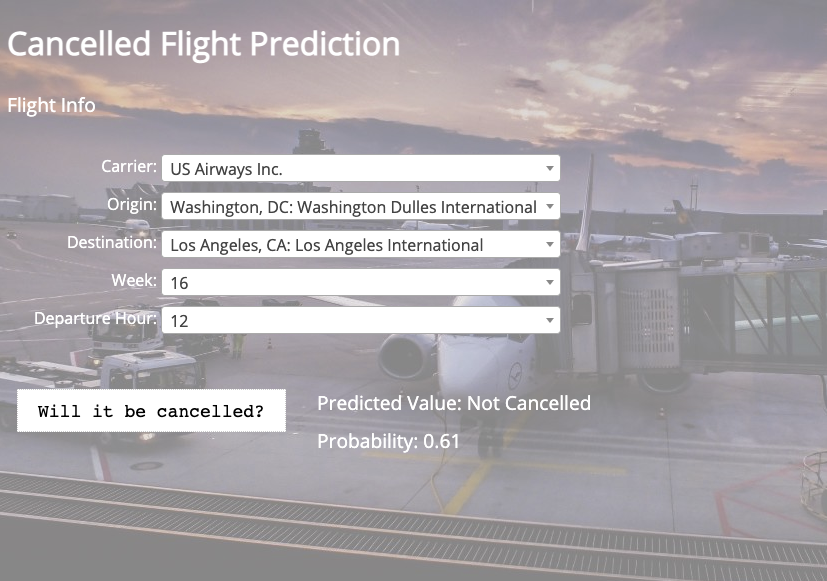
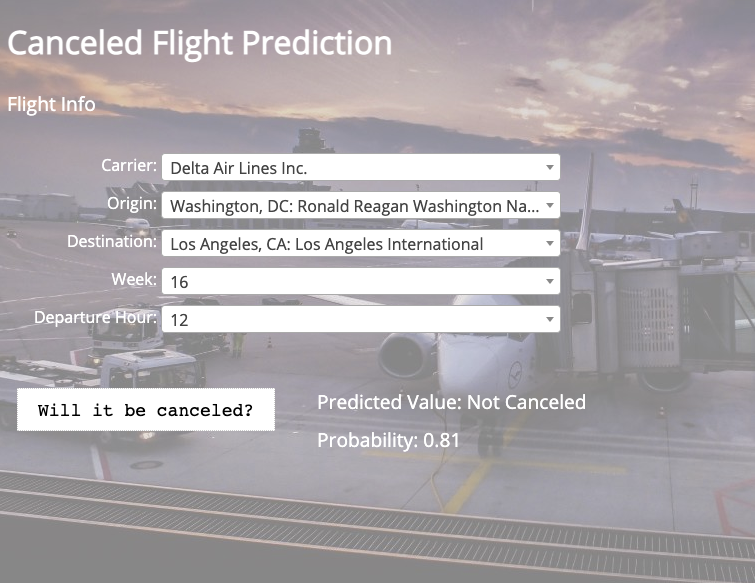
change spelling of cancelled throughout app

diff --git a/app/index.html b/app/index.html
@@ -54,7 +54,7 @@
 </head>
 
 <body>
-    <h1>Cancelled Flight Prediction</h1>
+    <h1>Canceled Flight Prediction</h1>
     <div class="bigger" style="margin-bottom: 30px">Flight Info</div>
 
     <div class="frm">
@@ -81,7 +81,7 @@
         </div>
 
         <div class="results">
-            <input type="submit" class="btn" value="Will it be cancelled?" onclick="go_fetch()"
+            <input type="submit" class="btn" value="Will it be canceled?" onclick="go_fetch()"
                 style="float:left;"></input>
 
             <div style="margin-left: 300px">

diff --git a/app/js/script.js b/app/js/script.js
@@ -490,7 +490,7 @@ function go_fetch() {
         }
     })
         .then(response => response.json())
-        .then(data => d3.select("#pred_value").text("Predicted Value: " + (data.response.prediction.prediction == 0 ? "Not Cancelled" : "Cancelled")) &
+        .then(data => d3.select("#pred_value").text("Predicted Value: " + (data.response.prediction.prediction == 0 ? "Not Canceled" : "Canceled")) &
             d3.select("#proba_value").text("Probability: " + (data.response.prediction.proba)))
         .catch(error => console.error('Error:', error));
 }

diff --git a/README.md b/README.md
@@ -1,11 +1,11 @@
-# Cancelled Flight Prediction
+# Canceled Flight Prediction
 This project is a Cloudera Machine Learning ([CML](https://www.cloudera.com/products/machine-learning.html)) **Applied Machine Learning Prototype** and has all the code and data needed to deploy an end-to-end machine learning project on a running CML instance.
 
 ![app](images/app.png)
 
 
 
-The primary goal of this repository is to build a gradient boosted (XGBoost) classification model to predict the likelihood of a flight being cancelled based on years of historical records. To achieve that goal, this project demonstrates the end-to-end processing needed to take two large, raw datasets and transform them into a clean, unified dataset for model training and inference using Spark on CML. Additionally, this project deploys a hosted model and front-end application to allow users to interact with the trained model. 
+The primary goal of this repository is to build a gradient boosted (XGBoost) classification model to predict the likelihood of a flight being canceled based on years of historical records. To achieve that goal, this project demonstrates the end-to-end processing needed to take two large, raw datasets and transform them into a clean, unified dataset for model training and inference using Spark on CML. Additionally, this project deploys a hosted model and front-end application to allow users to interact with the trained model. 
 
 The two datasets used in this project come from [Kaggle](https://www.kaggle.com/yuanyuwendymu/airline-delay-and-cancellation-data-2009-2018) and the [Bureau of Transportation Statistics](https://www.transtats.bts.gov/DL_SelectFields.asp?Table_ID=236&DB_Short_Name=On-Time).
 
@@ -41,8 +41,8 @@ We will focus our attention on working within CML, using all it has to offer, wh
 There are three ways to launch the this prototype on CML:
 
 1. **From Prototype Catalog** - Navigate to the Prototype Catalog on a CML workspace, select the "Airline Delay Prediction" tile, click "Launch as Project", click "Configure Project"
-2. **As ML Prototype** - In a CML workspace, click "New Project", add a Project Name, select "ML Prototype" as the Initial Setup option, copy in the [repo URL](https://github.com/cloudera/CML_AMP_Cancelled_Flight_Prediction), click "Create Project", click "Configure Project"
+2. **As ML Prototype** - In a CML workspace, click "New Project", add a Project Name, select "ML Prototype" as the Initial Setup option, copy in the [repo URL](https://github.com/cloudera/CML_AMP_Canceled_Flight_Prediction), click "Create Project", click "Configure Project"
 
-3. **Manual Setup** - In a CML workspace, click "New Project", add a Project Name, select "Git" as the Initial Setup option, copy in the [repo URL](CML_AMP_Cancelled_Flight_Prediction), click "Create Project". Then, follow the steps listed [in this document](code/README.md) in order
+3. **Manual Setup** - In a CML workspace, click "New Project", add a Project Name, select "Git" as the Initial Setup option, copy in the [repo URL](CML_AMP_Canceled_Flight_Prediction), click "Create Project". Then, follow the steps listed [in this document](code/README.md) in order
 
 If you deploy this project as an Applied ML Prototype (AMP) (options 1 or 2 above), you will need to specify whether to run the project with `STORAGE_MODE` set to `local` or `external`. Running in external mode requires having external storage configured on your CML workspace and triggers the project to ingest, process, and store ~20GB of raw data using Spark. Running in local mode will bypass the data ingestion and manipulation steps by using the `data/preprocessed_flight_data.tgz` file to train a model and deploy the application. While running the project as an AMP will install, setup, and build all project artifacts for you, it may still be instructive to review the documentation and files in the [code](code/) directory.
